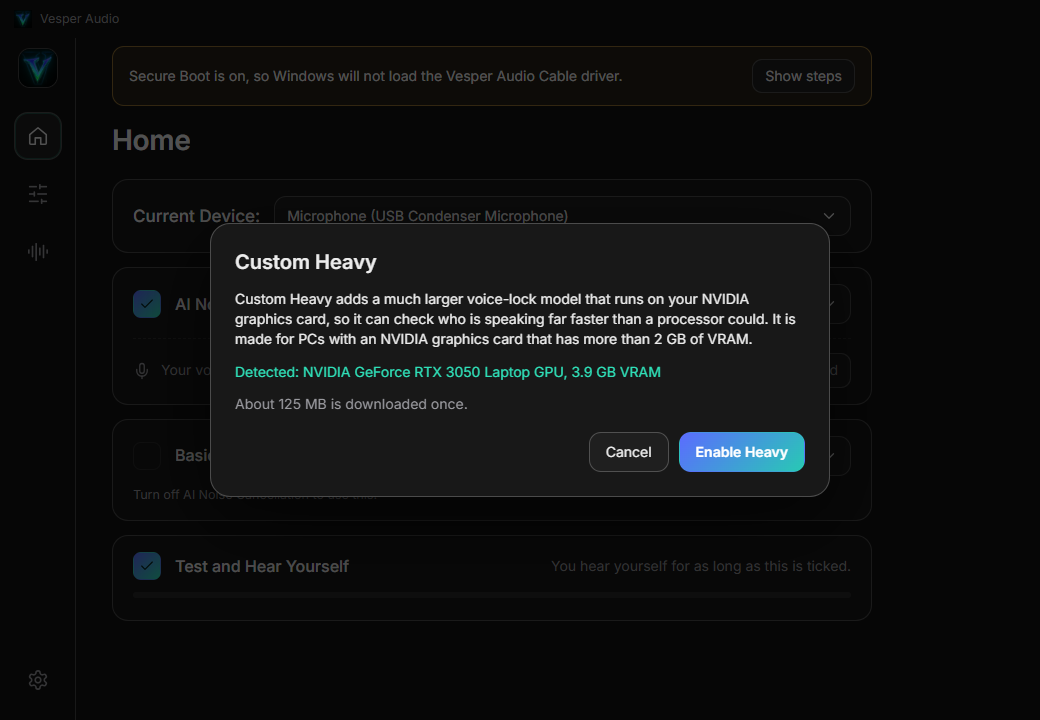
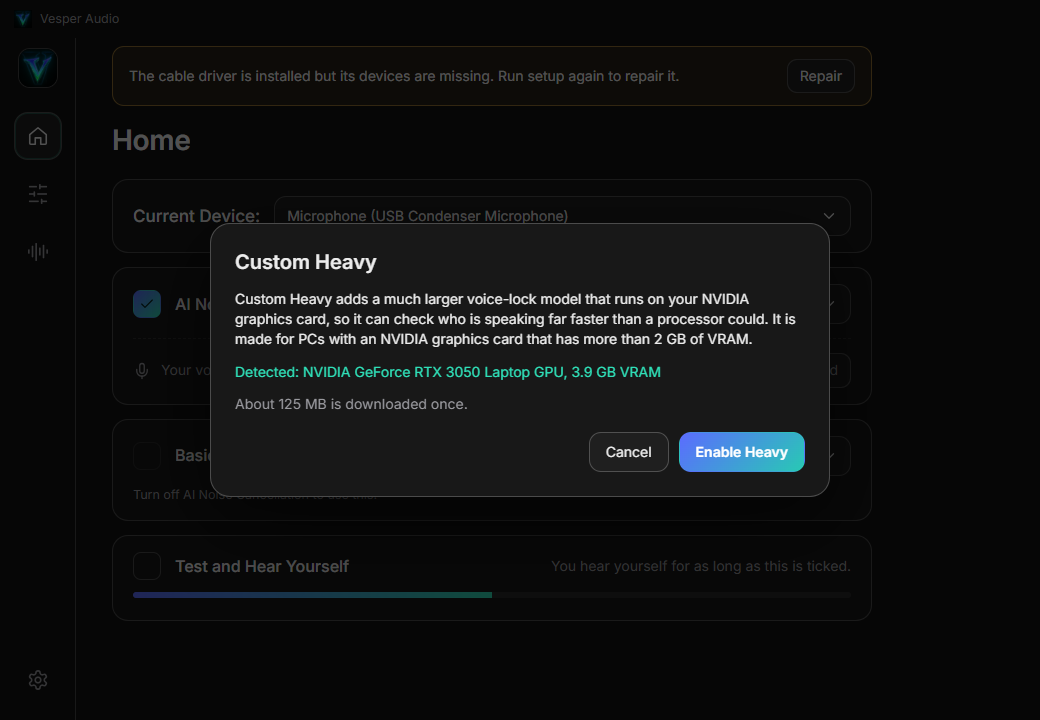
commit for readme and screenshots for vb cable and voice lock feature

Changed region(s): [[0.1231, 0.0917, 0.6462, 0.1222], [0.1231, 0.7639, 0.4615, 0.8556], [0.7385, 0.0917, 0.8308, 0.1222]]

diff --git a/README.md b/README.md
@@ -140,10 +140,23 @@ Fallback: if the main model is not downloaded yet, or the CPU cannot keep up for
 
 ### How the voice lock works
 
-1. **Enrollment.** You read a paragraph (English or Hindi) and laugh. Speech frames are collected from the denoised signal. Press **Stop** after 10 seconds of speech, or let it finish at 34 seconds.
-2. **Voiceprint.** 1.6 second windows go through a speaker verification network (80-dim Kaldi fbank, then a 512 or 256 dim embedding). The centroid is stored. The match threshold comes from held-out windows: centroid from half of your windows, score the other half, `thr = mean - 2.5 sd`, capped at 0.42 (small) or 0.40 (heavy). Cutting your own voice is worse than a brief leak, so the cap is conservative.
-3. **Live gate.** A voice activity detector flags speech. On a new utterance the gate opens optimistically for a short grace window, then similarity decides. Decisions use the last 1.0 to 1.6 seconds. Gate gain is smoothed (10 ms attack, 50 ms release).
-4. **Heavy** waits for a full 1.6 second window before deciding, which is slower to react but steadier.
+1. **Enrollment.** Read the paragraph (English or Hindi) in your normal voice and laugh. Accent and speed do not matter, the app learns how you really sound. Press **Stop** after 10 seconds of speech, or let it finish at 34 seconds.
+2. **Voiceprint.** 1.6 second windows every 0.4 seconds go through a speaker verification network (80-dim Kaldi fbank, then a 256 or 512 dim embedding). The windows are clustered with k-means into up to 6 centroids, so quiet, loud, fast and relaxed speech each get their own. The match threshold comes from held-out windows: centroids from half of your recording, score the other half, `thr = mean - 2 sd`, floor 0.30, cap 0.40 (Custom) or 0.38 (Heavy). Cutting your own voice is worse than a brief leak, so the cap is conservative.
+3. **Live gate.** The gate is open by default and closes only after two consecutive "not you" verdicts (one if the score is far below the reject line). A verdict is the median of the last three scores against your best matching centroid, with separate accept and reject thresholds (`reject = thr - 0.1`) so it does not flutter. Confident matches are kept in a gallery of up to 24 live embeddings, so the voiceprint follows you through the session. Gate gain is smoothed (10 ms attack, 50 ms release).
+4. **Strictness.** **Settings, Voice lock strictness** moves both thresholds: Relaxed (-0.06 / -0.08), Balanced (default), Strict (+0.05 / +0.06).
+5. **Heavy** waits for a full 1.6 second window before deciding, which is slower to react but steadier.
+
+Measured on 8 LibriSpeech dev-clean speakers (about 38 s of enrollment each, 4 test clips each, mixed with 4 other speakers, CAM++ model, 100 ms chunks). "Me open" is the share of speech frames where the gate is open for the enrolled speaker, "others open" the same for everyone else. Speed shifts stand in for sounding different from the enrollment, which is what an accent or a tired voice does.
+
+| Test audio | Old gate, me open | New gate, me open | Old gate, others open | New gate, others open |
+| --- | --- | --- | --- | --- |
+| Same conditions | 97% | **100%** | 13% | 38% |
+| Speed +/-10% | 79% | **99%** | 13% | 40% |
+| Speed +/-20% | 34% | **69%** | 12% | 40% |
+| Room reverb | 96% | **100%** | 13% | 37% |
+| First second of your speech | 80% | **100%** | | |
+
+The trade is deliberate: the old gate cut the user's own voice far too often, the new one almost never does, and in exchange the first second or so of another person's sentence leaks until two verdicts agree (others are open in 99% of their first second). Strict lowers the leak to about 34% and drops "me open" at +/-20% shift to 48%. Small test set on read speech, so read it as direction, not proof.
 
 Your recording is stored locally as 16 kHz PCM under `voice/` so Heavy can build its own voiceprint without asking you to read again.
 
@@ -206,7 +219,7 @@ Streaming frames are latency bound, not throughput bound, so a GPU does not help
 | CAM++ small | 0.55 to 0.68 | 0.28 to 0.42 |
 | ResNet293 | 0.48 to 0.66 | 0.19 to 0.32 |
 
-Small test set, so read it as direction, not proof. In the live gate run on a mixed file of three speakers, Custom passes my voice 80 to 100 percent in the first 1.2 s and about 90 percent after, while other speakers are open 0 to 8 percent after their first second.
+Small test set, so read it as direction, not proof. The live gate results are in [How the voice lock works](#how-the-voice-lock-works).
 
 ### Latency
 
